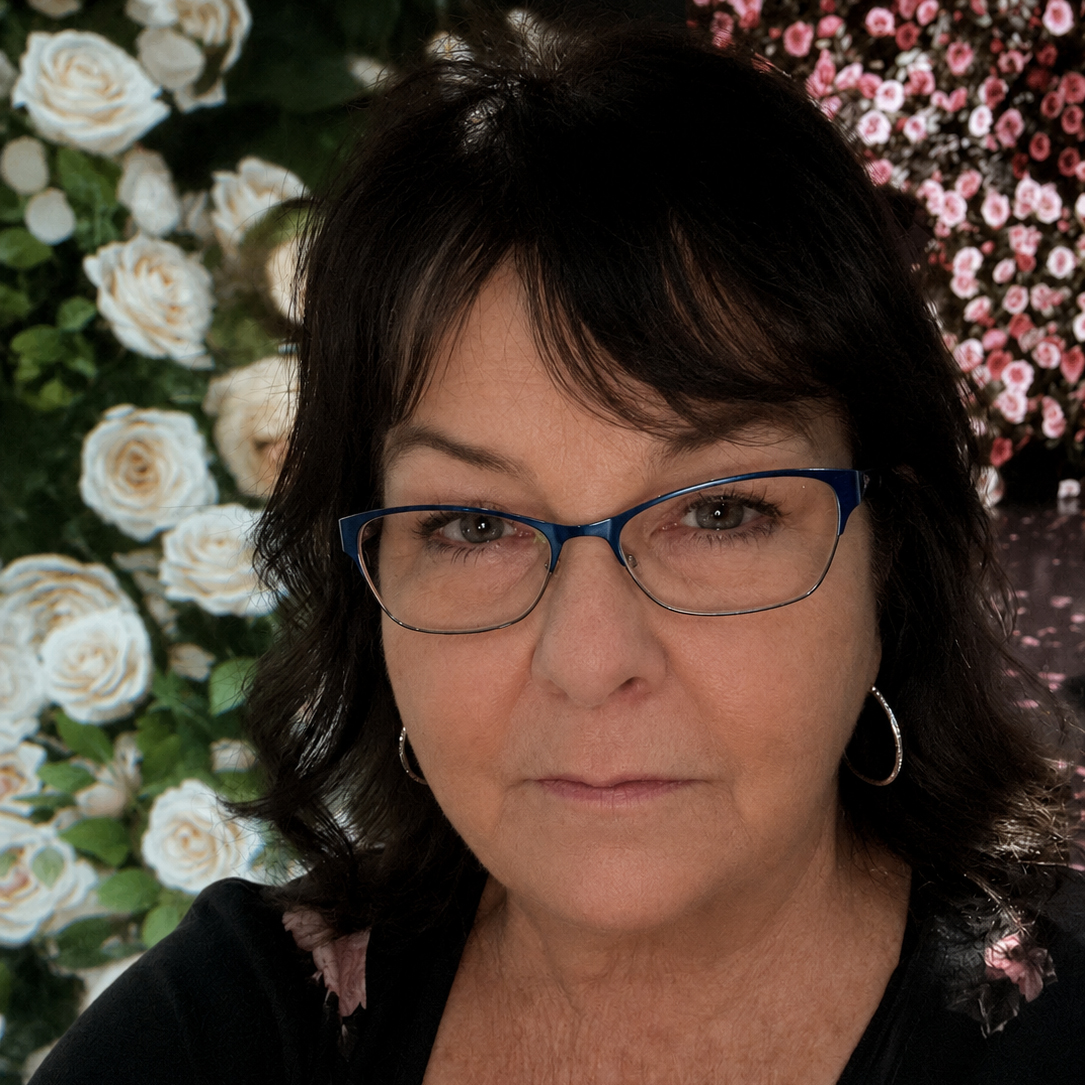
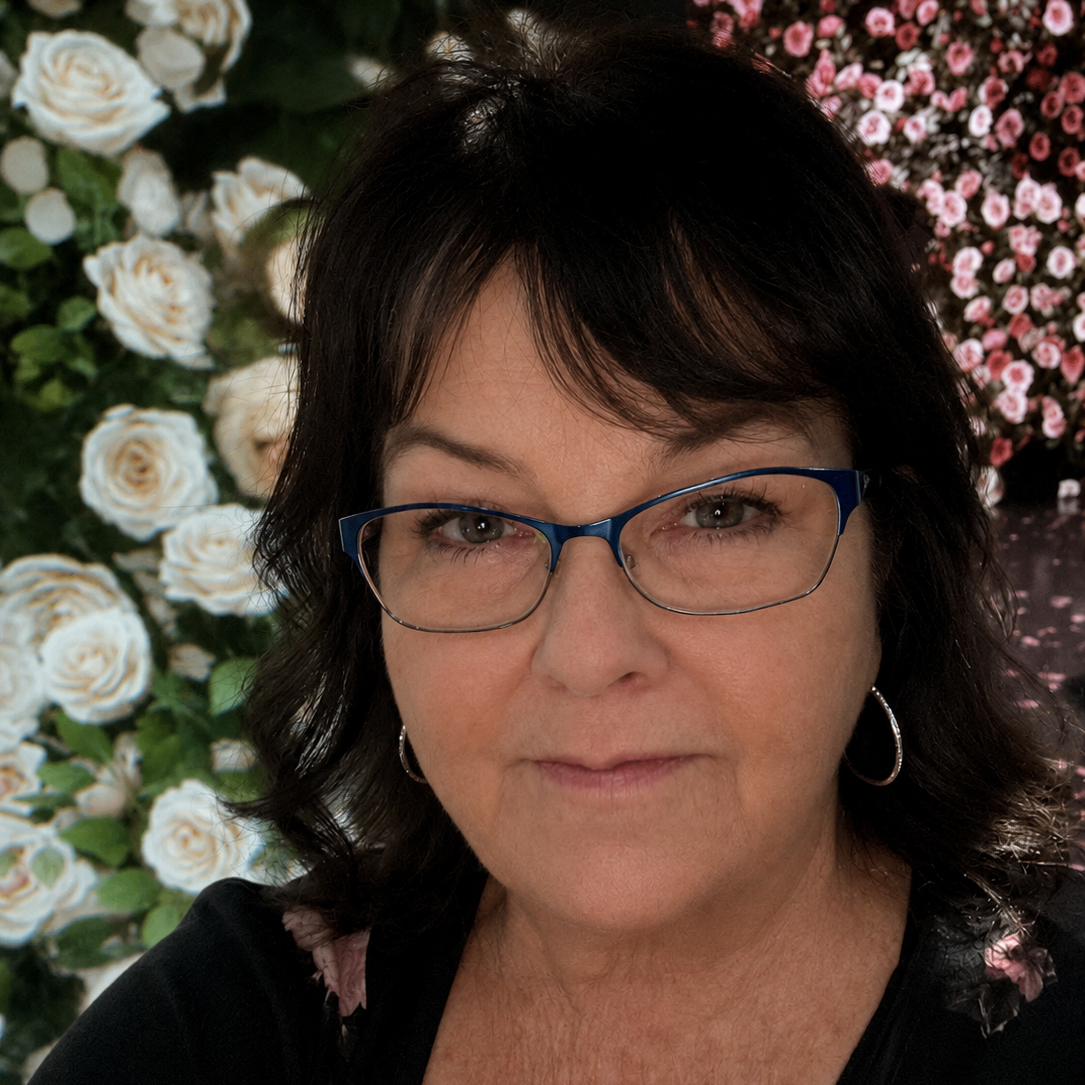
update

diff --git a/schedule.html b/schedule.html
@@ -62,7 +62,7 @@
 
         <h2>📍 Weekly Class - Thursdays</h2>
 
-        <p><strong>Day:</strong> Thursdays - "Steppin' Out" - Intermediate / Advanced Class</p>
+        <p><strong>Level:</strong> Intermediate / Advanced Class (Steppin' Out with Wendy)</p>
         <hr>
         <p><strong>Time:</strong> 4:30 PM – 5:00 PM - Warmup & Quick Reviews </p>
         <p><strong>Time:</strong> 5:00 PM - 6:30 PM - Intermediate / Advanced Lesson</p>